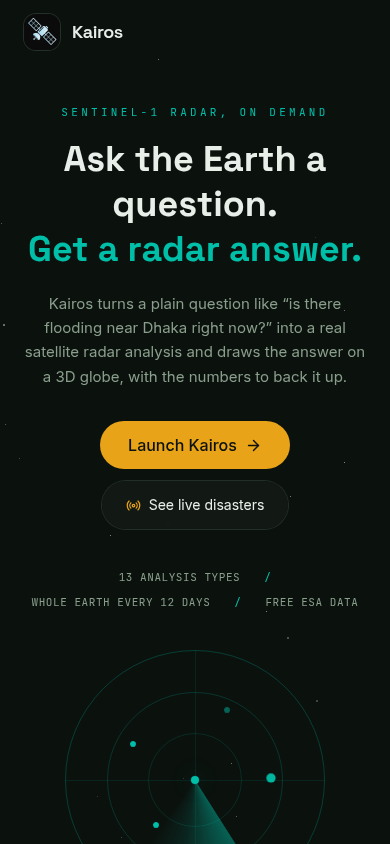
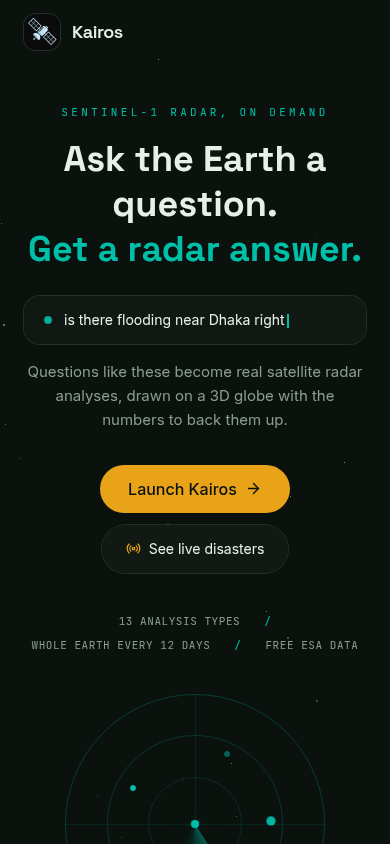
Animate the landing: typewriter query pill, scroll reveals, hero video slot

diff --git a/frontend/src/components/Landing/Landing.tsx b/frontend/src/components/Landing/Landing.tsx
@@ -1,4 +1,5 @@
 import { useEffect, useMemo, useState } from "react";
+import { MotionConfig, motion } from "framer-motion";
 import {
   ArrowDown,
   ArrowRight,
@@ -13,6 +14,64 @@ import {
   Trees,
   Waves,
 } from "lucide-react";
+
+const EXAMPLE_QUESTIONS = [
+  "is there flooding near Dhaka right now?",
+  "how many ships are in the Strait of Hormuz today?",
+  "how much of Rondônia was cleared this year?",
+  "did the burn scar grow overnight?",
+  "how deep is the water in the flooded district?",
+];
+
+function useTypewriter(lines: string[]): string {
+  const [text, setText] = useState("");
+
+  useEffect(() => {
+    if (window.matchMedia("(prefers-reduced-motion: reduce)").matches) {
+      setText(lines[0]);
+      return;
+    }
+    let line = 0;
+    let char = 0;
+    let deleting = false;
+    let timer: ReturnType<typeof setTimeout>;
+
+    const tick = () => {
+      const current = lines[line];
+      if (!deleting) {
+        char++;
+        setText(current.slice(0, char));
+        if (char === current.length) {
+          deleting = true;
+          timer = setTimeout(tick, 1800);
+        } else {
+          timer = setTimeout(tick, 42);
+        }
+      } else {
+        char--;
+        setText(current.slice(0, char));
+        if (char === 0) {
+          deleting = false;
+          line = (line + 1) % lines.length;
+          timer = setTimeout(tick, 350);
+        } else {
+          timer = setTimeout(tick, 18);
+        }
+      }
+    };
+    timer = setTimeout(tick, 700);
+    return () => clearTimeout(timer);
+  }, [lines]);
+
+  return text;
+}
+
+const reveal = {
+  initial: { opacity: 0, y: 26 },
+  whileInView: { opacity: 1, y: 0 },
+  viewport: { once: true, margin: "-60px" },
+  transition: { duration: 0.55, ease: "easeOut" as const },
+};
 
 const CAPABILITIES = [
   { icon: Waves, name: "Flood mapping", blurb: "New water where there was land yesterday" },
@@ -99,6 +158,7 @@ export default function Landing({ onLaunch }: { onLaunch: () => void }) {
   const [installEvent, setInstallEvent] = useState<InstallPromptEvent | null>(null);
   const starsSmall = useMemo(() => starField(90, 1337), []);
   const starsBright = useMemo(() => starField(30, 4242), []);
+  const typed = useTypewriter(EXAMPLE_QUESTIONS);
 
   useEffect(() => {
     const onPrompt = (e: Event) => {
@@ -115,12 +175,21 @@ export default function Landing({ onLaunch }: { onLaunch: () => void }) {
   }
 
   return (
+    <MotionConfig reducedMotion="user">
     <div className="h-full overflow-y-auto overflow-x-hidden bg-bg text-ink">
       <section className="relative flex min-h-[100dvh] flex-col px-6 sm:px-10">
         <div aria-hidden="true" className="pointer-events-none absolute inset-0 overflow-hidden">
           <div
             className="absolute inset-0 bg-cover bg-center opacity-40"
             style={{ backgroundImage: "url(/hero-orbital.webp)" }}
+          />
+          <video
+            className="absolute inset-0 h-full w-full object-cover opacity-40 motion-reduce:hidden"
+            src="/hero-orbital.mp4"
+            autoPlay
+            muted
+            loop
+            playsInline
           />
           <div className="absolute inset-0 bg-gradient-to-r from-bg via-bg/60 to-bg/20" />
           <div className="absolute inset-0 bg-gradient-to-t from-bg via-transparent to-bg/40" />
@@ -155,10 +224,16 @@ export default function Landing({ onLaunch }: { onLaunch: () => void }) {
               <br />
               <span className="text-teal">Get a radar answer.</span>
             </h1>
-            <p className="mx-auto mt-5 max-w-lg text-[15px] leading-relaxed text-dim lg:mx-0">
-              Kairos turns a plain question like &ldquo;is there flooding near
-              Dhaka right now?&rdquo; into a real satellite radar analysis and
-              draws the answer on a 3D globe, with the numbers to back it up.
+            <div className="mx-auto mt-6 flex h-12 max-w-lg items-center gap-3 rounded-2xl bg-surface/80 px-5 ring-1 ring-line backdrop-blur lg:mx-0">
+              <span className="h-2 w-2 shrink-0 rounded-full bg-teal animate-pulse-soft" />
+              <span className="min-w-0 truncate text-left text-sm text-ink">
+                {typed}
+                <span className="typing-caret" aria-hidden="true" />
+              </span>
+            </div>
+            <p className="mx-auto mt-4 max-w-lg text-[15px] leading-relaxed text-dim lg:mx-0">
+              Questions like these become real satellite radar analyses,
+              drawn on a 3D globe with the numbers to back them up.
             </p>
 
             <div className="mt-8 flex flex-wrap items-center justify-center gap-3 lg:justify-start">
@@ -216,9 +291,11 @@ export default function Landing({ onLaunch }: { onLaunch: () => void }) {
           ones people reach for first.
         </p>
         <div className="mt-8 grid grid-cols-2 gap-3 lg:grid-cols-4">
-          {CAPABILITIES.map((c) => (
-            <div
+          {CAPABILITIES.map((c, i) => (
+            <motion.div
               key={c.name}
+              {...reveal}
+              transition={{ ...reveal.transition, delay: (i % 4) * 0.07 }}
               className="rounded-2xl bg-surface p-4 ring-1 ring-line transition-colors hover:ring-teal/40"
             >
               <c.icon size={18} className="text-teal" />
@@ -226,7 +303,7 @@ export default function Landing({ onLaunch }: { onLaunch: () => void }) {
               <div className="mt-1 text-xs leading-relaxed text-dim">
                 {c.blurb}
               </div>
-            </div>
+            </motion.div>
           ))}
         </div>
       </section>
@@ -237,7 +314,7 @@ export default function Landing({ onLaunch }: { onLaunch: () => void }) {
             Why radar and not photos?
           </h2>
           <div className="mt-8 grid gap-4 sm:grid-cols-3">
-            <div className="rounded-2xl bg-bg p-5 ring-1 ring-line">
+            <motion.div {...reveal} className="rounded-2xl bg-bg p-5 ring-1 ring-line">
               <div className="font-mono text-[10px] tracking-[0.25em] text-teal">
                 CLOUDS
               </div>
@@ -247,8 +324,12 @@ export default function Landing({ onLaunch }: { onLaunch: () => void }) {
                 come with storms and fires come with smoke. Microwaves pass
                 straight through both.
               </p>
-            </div>
-            <div className="rounded-2xl bg-bg p-5 ring-1 ring-line">
+            </motion.div>
+            <motion.div
+              {...reveal}
+              transition={{ ...reveal.transition, delay: 0.08 }}
+              className="rounded-2xl bg-bg p-5 ring-1 ring-line"
+            >
               <div className="font-mono text-[10px] tracking-[0.25em] text-teal">
                 DARKNESS
               </div>
@@ -258,8 +339,12 @@ export default function Landing({ onLaunch }: { onLaunch: () => void }) {
                 and measures the echo, so midnight over the ocean looks the
                 same as noon.
               </p>
-            </div>
-            <div className="rounded-2xl bg-bg p-5 ring-1 ring-line">
+            </motion.div>
+            <motion.div
+              {...reveal}
+              transition={{ ...reveal.transition, delay: 0.16 }}
+              className="rounded-2xl bg-bg p-5 ring-1 ring-line"
+            >
               <div className="font-mono text-[10px] tracking-[0.25em] text-teal">
                 ACCESS
               </div>
@@ -268,7 +353,7 @@ export default function Landing({ onLaunch }: { onLaunch: () => void }) {
                 Sentinel-1 data from the European Space Agency is open. Kairos
                 just makes it usable without a remote-sensing degree.
               </p>
-            </div>
+            </motion.div>
           </div>
 
           <p className="mt-8 max-w-3xl text-sm leading-relaxed text-dim">
@@ -289,7 +374,12 @@ export default function Landing({ onLaunch }: { onLaunch: () => void }) {
         </h2>
         <ol className="mt-8 space-y-4">
           {STEPS.map((s, i) => (
-            <li key={s.title} className="flex gap-4 rounded-2xl bg-surface p-5 ring-1 ring-line">
+            <motion.li
+              {...reveal}
+              transition={{ ...reveal.transition, delay: i * 0.06 }}
+              key={s.title}
+              className="flex gap-4 rounded-2xl bg-surface p-5 ring-1 ring-line"
+            >
               <span className="font-display text-2xl font-bold text-teal/80">
                 {i + 1}
               </span>
@@ -299,7 +389,7 @@ export default function Landing({ onLaunch }: { onLaunch: () => void }) {
                   {s.body}
                 </p>
               </div>
-            </li>
+            </motion.li>
           ))}
         </ol>
 
@@ -327,5 +417,6 @@ export default function Landing({ onLaunch }: { onLaunch: () => void }) {
         </div>
       </footer>
     </div>
+    </MotionConfig>
   );
 }

diff --git a/frontend/src/styles/globals.css b/frontend/src/styles/globals.css
@@ -111,6 +111,20 @@ body,
 .radar-blip {
   animation: radar-blip 5s ease-out infinite;
 }
+@keyframes caret-blink {
+  0%, 45% { opacity: 1; }
+  55%, 100% { opacity: 0; }
+}
+.typing-caret {
+  display: inline-block;
+  width: 2px;
+  height: 1em;
+  margin-left: 2px;
+  vertical-align: text-bottom;
+  background: #00bfa8;
+  animation: caret-blink 1s steps(1) infinite;
+}
+
 @keyframes star-twinkle {
   0%, 100% { opacity: 0.5; }
   50% { opacity: 1; }